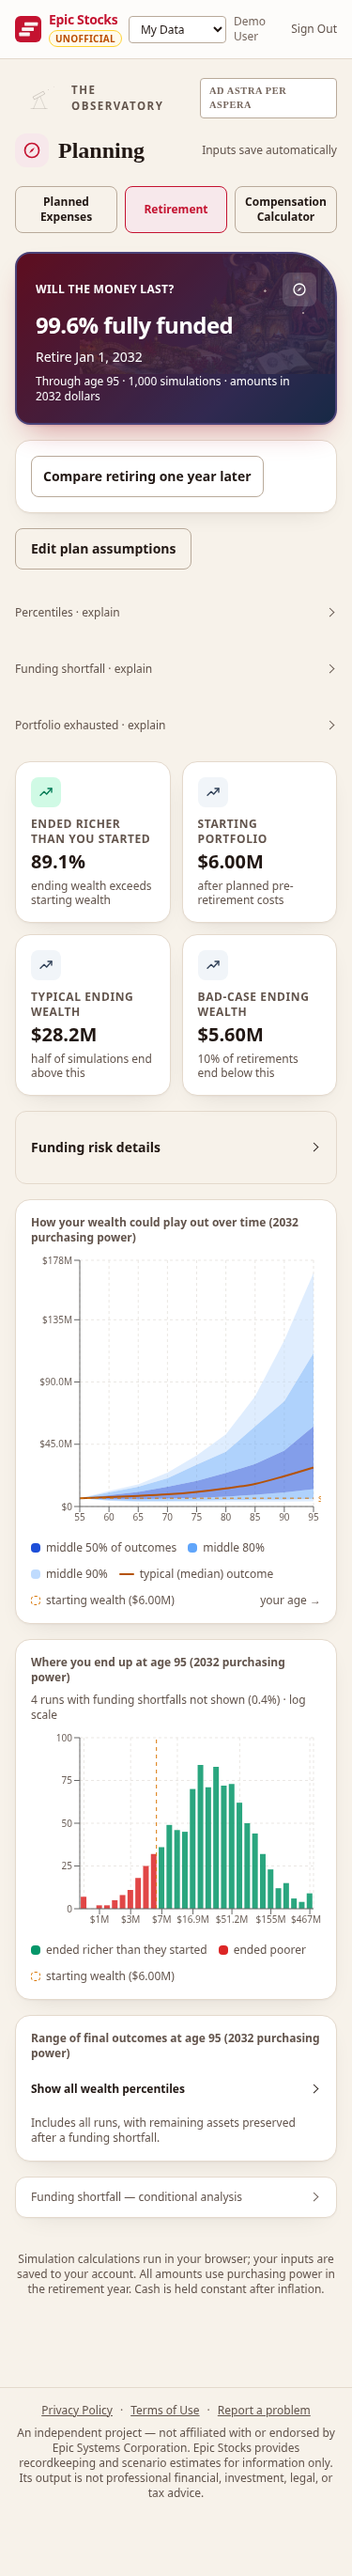
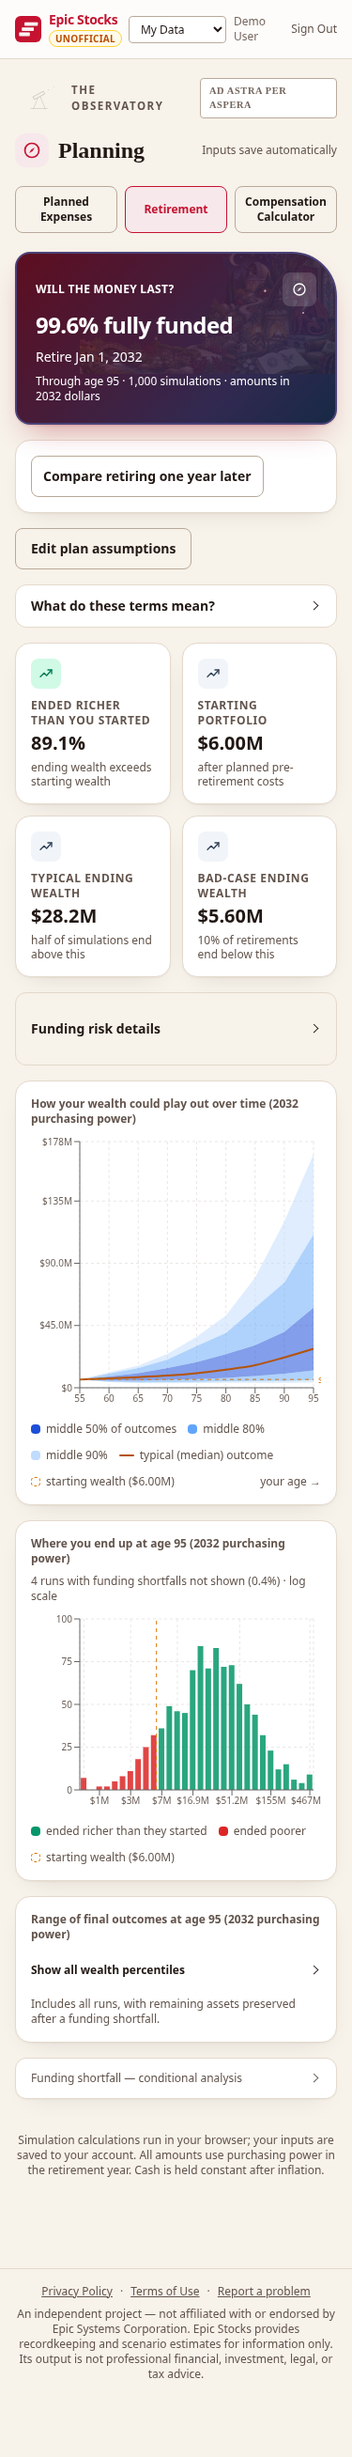
Use the shared glossary in retirement results

diff --git a/frontend/src/app/pages/Retirement.tsx b/frontend/src/app/pages/Retirement.tsx
@@ -6,7 +6,7 @@ import PlanningNavigation from '../components/PlanningNavigation.tsx'
 import { Link, useLocation, useSearchParams } from 'react-router-dom'
 import { useCallback, useEffect, useId, useMemo, useRef, useState, type ReactNode } from 'react'
 import financialTerms from '../../../../backend/app/financial_terms.json'
-import { InlineTerm } from '../components/EquityTerms.tsx'
+import EquityTerms from '../components/EquityTerms.tsx'
 
 function moneyParamsValid(params: object) {
   return [
@@ -1970,7 +1970,7 @@ function RetirementAccount() {
               </div>}
             </Card>}
             {showingResults && <button type="button" onClick={() => changeAssumptionsView(true)} className="min-h-11 rounded-lg border border-cs-border-strong px-4 py-2 text-sm font-semibold text-cs-text">Edit plan assumptions</button>}
-            <div className="grid gap-2 sm:grid-cols-3"><InlineTerm term="percentiles" /><InlineTerm term="funding_shortfall" /><InlineTerm term="exhausted" /></div>
+            <EquityTerms terms={['percentiles', 'funding_shortfall', 'exhausted']} />
             <div className="grid grid-cols-2 gap-3">
               <StatCard
                 label="Ended richer than you started"

diff --git a/frontend/e2e/screenshots.spec.ts b/frontend/e2e/screenshots.spec.ts
@@ -1215,6 +1215,14 @@ test.describe('Screenshots', () => {
   test('retirement - dark - mobile', async ({ page }) => {
     await authedPage(page, MOBILE, 'dark')
     await seedRetirement(page)
+    const glossary = page.locator('details').filter({ has: page.locator('summary', { hasText: 'What do these terms mean?' }) })
+    const terms = glossary.locator('dt')
+    await expect(terms.first()).toBeHidden()
+    await glossary.locator('summary').click()
+    await expect(terms).toHaveText(['Percentiles', 'Funding shortfall', 'Portfolio exhausted'])
+    await expect(terms.last()).toBeVisible()
+    await glossary.locator('summary').click()
+    await expect(terms.last()).toBeHidden()
     await shoot(page, 'retirement-dark-mobile', { fullPage: true })
     await page.getByText('Funding risk details', { exact: true }).click()
     await page.getByText('Funding risk details', { exact: true }).locator('..').screenshot({ path: `${OUT}/retirement-risk-details-dark-mobile.png`, style: '.sticky,[aria-label="Mobile navigation"]{visibility:hidden!important}' })

diff --git a/README.md b/README.md
@@ -449,10 +449,12 @@ stay fixed, and pre-retirement purchases reduce the later starting portfolio;
 working-life savings and investment returns are not modeled.
 
 **Reading retirement results:** The main result shows the chance of fully funding
-retirement once, followed by starting and ending wealth. Expand **Funding risk
-details** for shortfalls and the difference between depleted and inaccessible
-assets. Planned purchases show one headline probability, a count chart including
-replacements, and each optional purchase's timing. **Calculation details** holds
+retirement once, followed by starting and ending wealth. Expand **What do these
+terms mean?** for definitions of percentiles, funding shortfall, and portfolio
+exhaustion. Expand **Funding risk details** for shortfalls and the difference
+between depleted and inaccessible assets. Planned purchases show one headline
+probability, a count chart including replacements, and each optional purchase's
+timing. **Calculation details** holds
 sample counts, the separate *buy + fully fund retirement* measure and its
 definition. **Required expenses** are scheduled in every simulation. Dates and
 price basis are shown with the relevant inputs; entering today's prices converts
